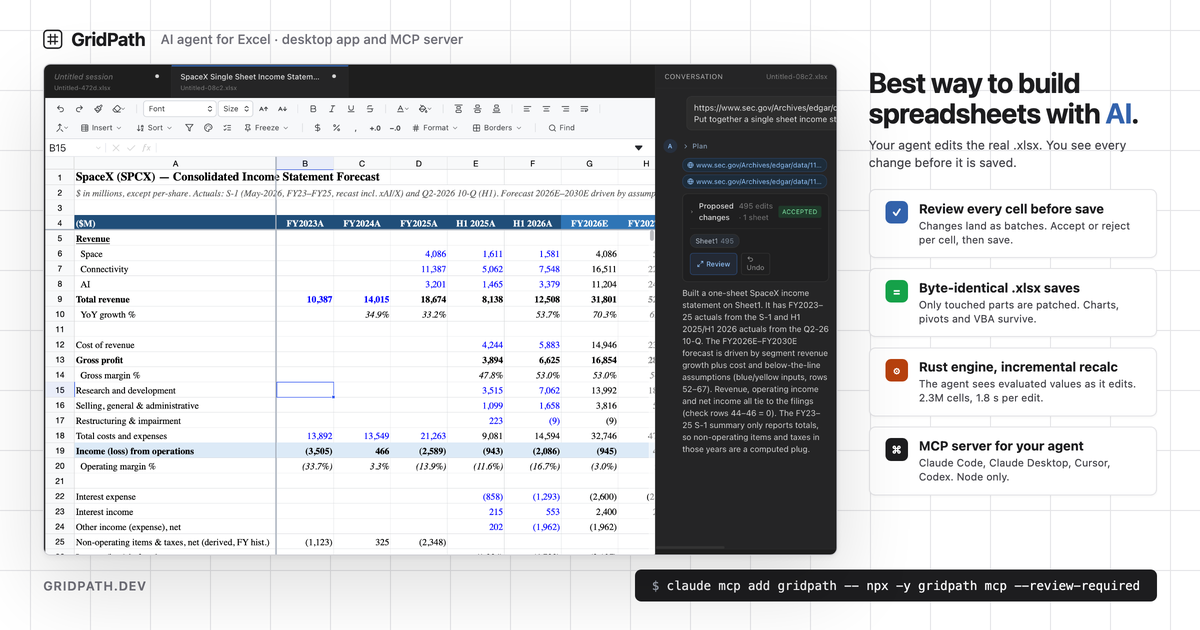
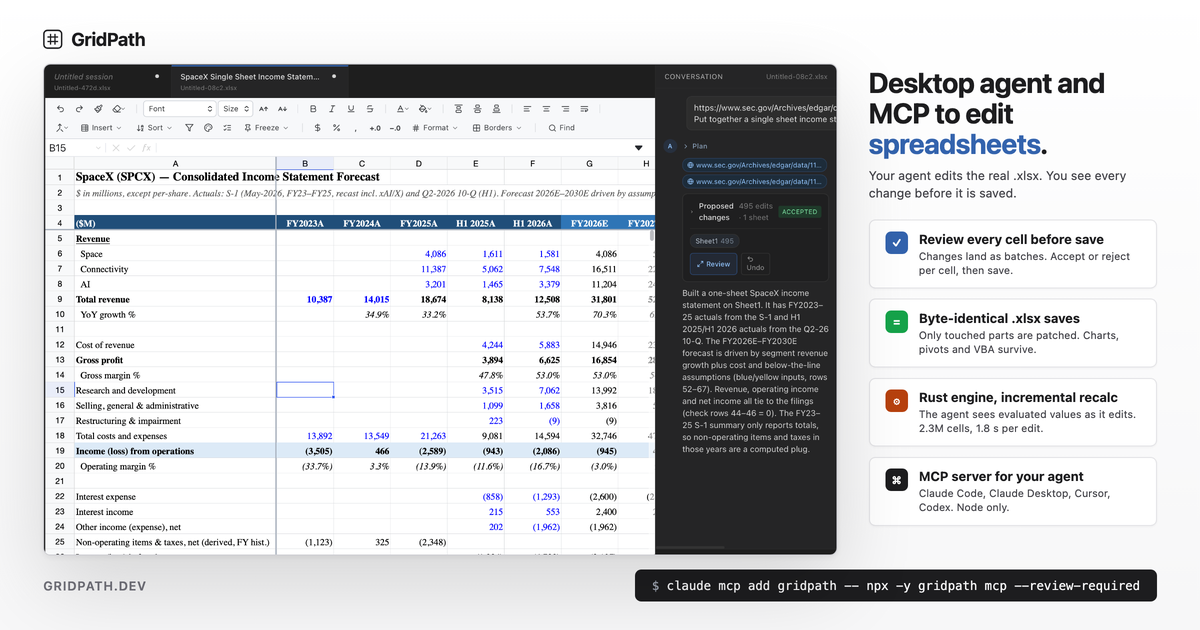
Hero image: plain background, headline without the slogan

Changed region(s): [[0.7092, 0.1206, 0.9558, 0.8143], [0.1233, 0.0603, 0.4008, 0.0905]]

diff --git a/docs/images/hero-source.html b/docs/images/hero-source.html
@@ -5,8 +5,7 @@
   * { box-sizing:border-box; margin:0; }
   html,body { width:100vw; height:100vh; overflow:hidden; background:#fff; color:var(--text);
     font-family:-apple-system,BlinkMacSystemFont,"Inter","Segoe UI",Roboto,sans-serif; }
-  body { background-image:linear-gradient(var(--border) 1px, transparent 1px), linear-gradient(90deg, var(--border) 1px, transparent 1px);
-    background-size:5vw 5vw; background-position:2.5vw 2.5vw; }
+  body { background:linear-gradient(180deg,#ffffff 0%,#f7f7f8 100%); }
   .page { position:absolute; inset:0; padding:4.5vh 3.6vw; display:grid; grid-template-columns:1fr 24vw; grid-template-rows:auto 1fr auto; column-gap:2.6vw; row-gap:2.2vh; }
   .brand { grid-column:1/3; display:flex; align-items:center; gap:0.7vw; font-weight:700; font-size:2.9vh; letter-spacing:-0.02em; }
   .brand svg { width:3.1vh; height:3.1vh; }
@@ -31,11 +30,11 @@
 <div class="page">
   <div class="brand">
     <svg viewBox="0 0 22 22" fill="none"><rect x="1" y="1" width="20" height="20" rx="4" stroke="currentColor" stroke-width="1.6"/><path d="M5 8.5 H17 M5 13.5 H17 M8.5 5 V17 M13.5 5 V17" stroke="currentColor" stroke-width="1.4"/></svg>
-    GridPath <span class="tag">AI agent for Excel · desktop app and MCP server</span>
+    GridPath
   </div>
   <div class="shot"><img src="app.png" alt=""></div>
   <div class="side">
-    <div class="head"><h1>Best way to build spreadsheets with <em>AI</em>.</h1><p>Your agent edits the real .xlsx. You see every change before it is saved.</p></div>
+    <div class="head"><h1>Desktop agent and MCP to edit <em>spreadsheets</em>.</h1><p>Your agent edits the real .xlsx. You see every change before it is saved.</p></div>
     <div class="chip c1"><i>✓</i><div><b>Review every cell before save</b><small>Changes land as batches. Accept or reject per cell, then save.</small></div></div>
     <div class="chip c2"><i>=</i><div><b>Byte-identical .xlsx saves</b><small>Only touched parts are patched. Charts, pivots and VBA survive.</small></div></div>
     <div class="chip c3"><i>⚙</i><div><b>Rust engine, incremental recalc</b><small>The agent sees evaluated values as it edits. 2.3M cells, 1.8 s per edit.</small></div></div>
